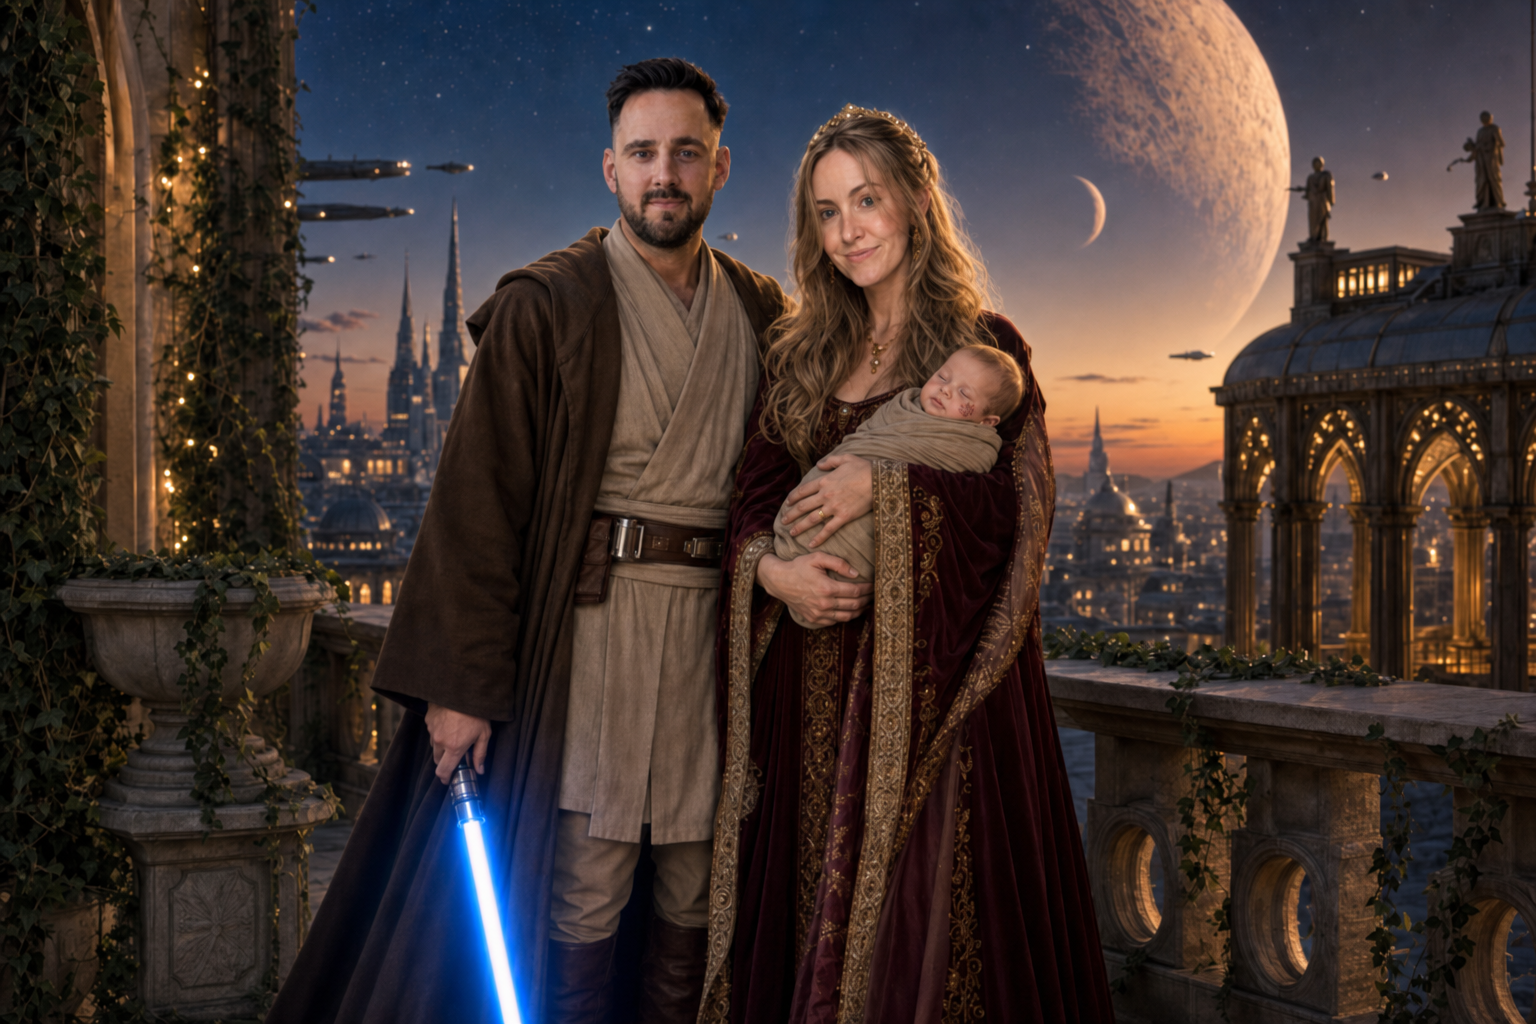
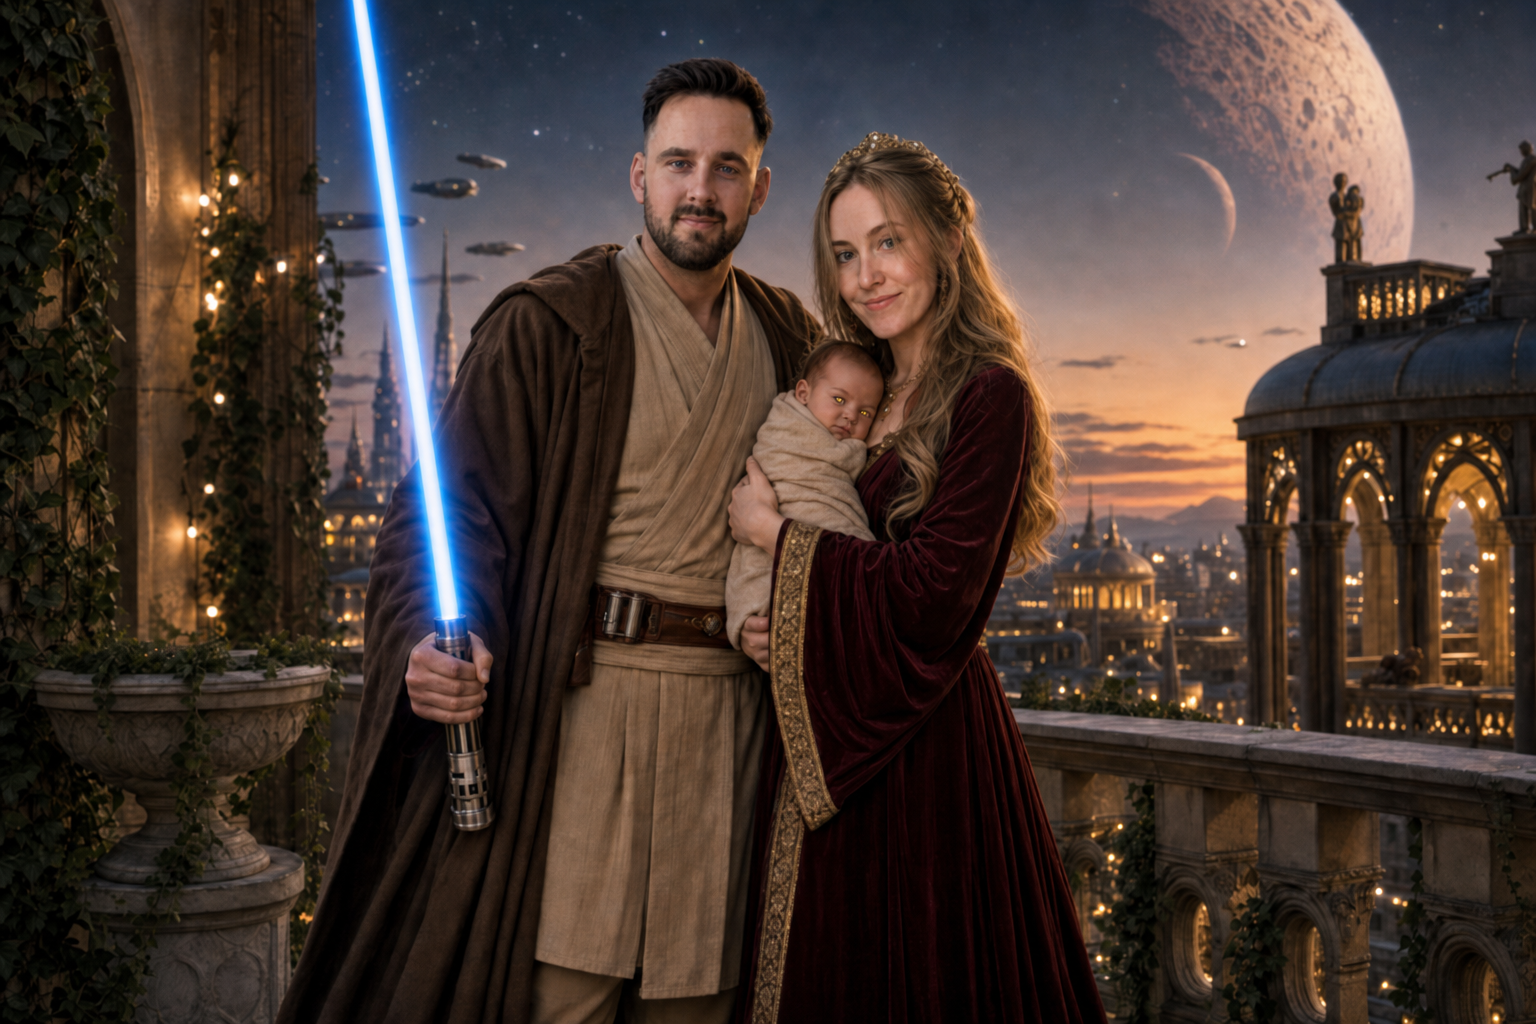
Terug naar originele morph: rustig babygezicht naar gele ogen en kleine greins, zonder Maul-tatoeages.

diff --git a/index.html b/index.html
@@ -307,12 +307,12 @@
       <div class="reveal-fotos">
         <figure class="reveal-foto reveal-morph">
           <img
-            src="fotos/max-marjean-baby-reveal-normaal.png?v=5"
-            alt="Max en Marjean met hun zoon: eerst een rustig babygezicht, dan een kleine Maul-greins"
+            src="fotos/max-marjean-baby-reveal-normaal.png?v=6"
+            alt="Max en Marjean met hun zoon: eerst een rustig babygezicht, dan gele ogen en een kleine greins"
           />
           <img
             class="reveal-morph-grin"
-            src="fotos/max-marjean-baby-reveal-greins.png?v=5"
+            src="fotos/max-marjean-baby-reveal-greins.png?v=6"
             alt=""
             aria-hidden="true"
           />
